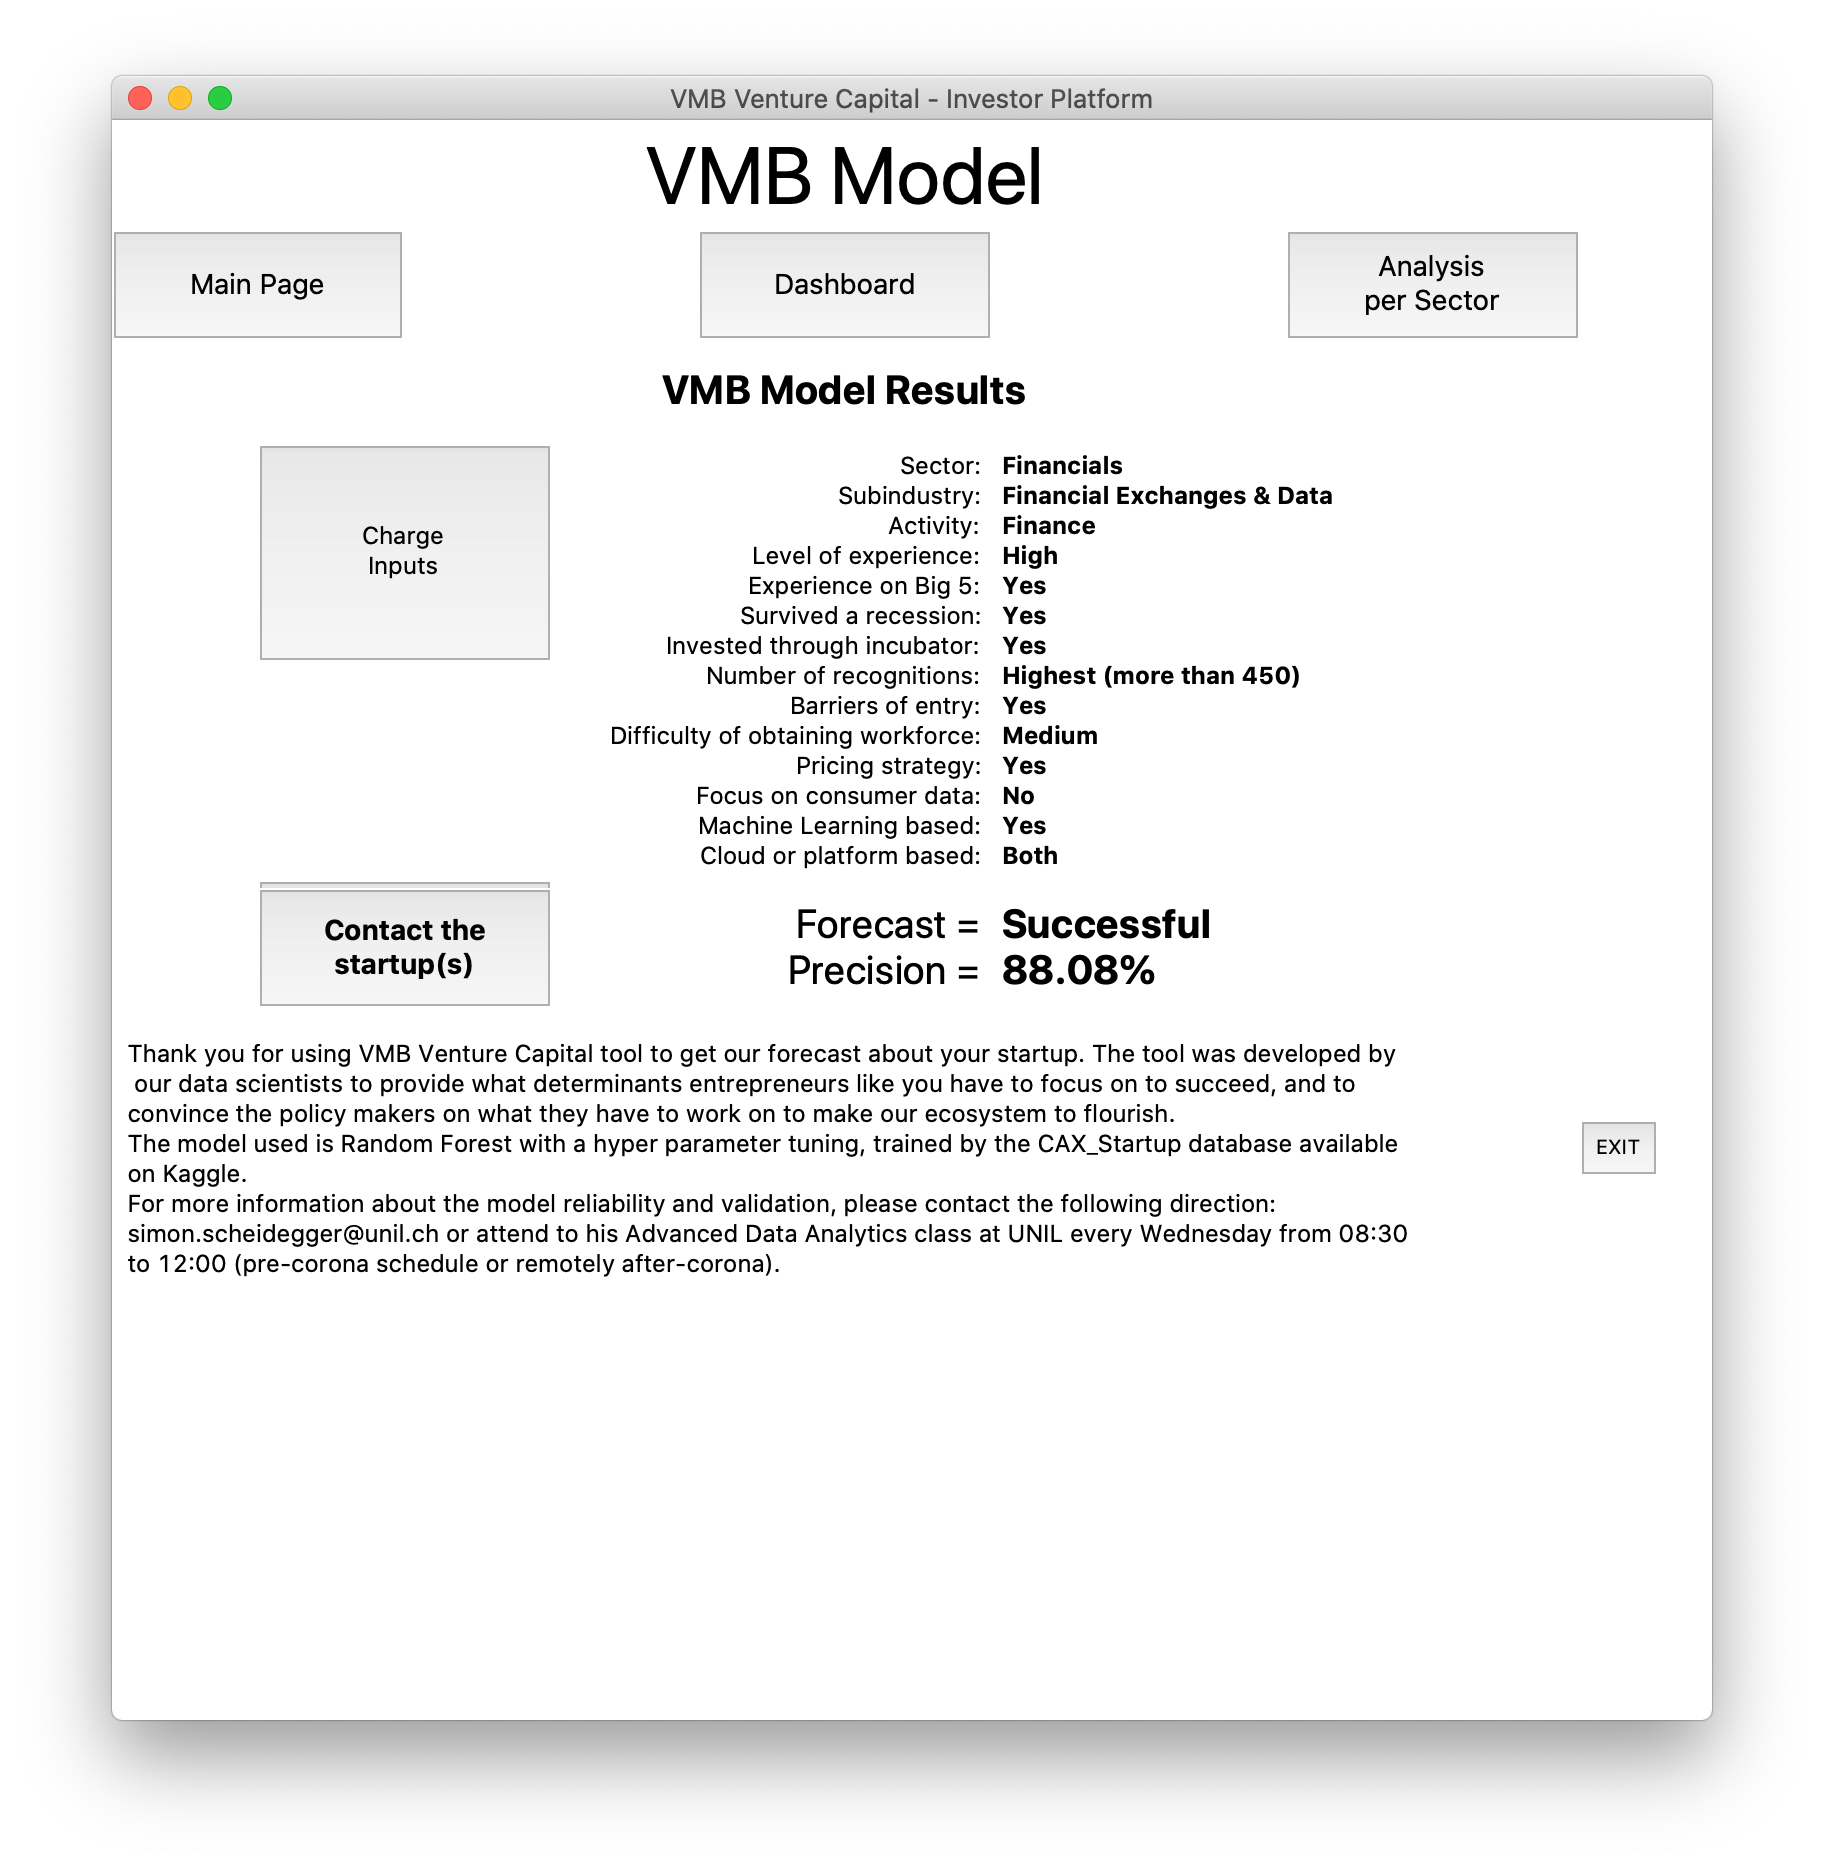
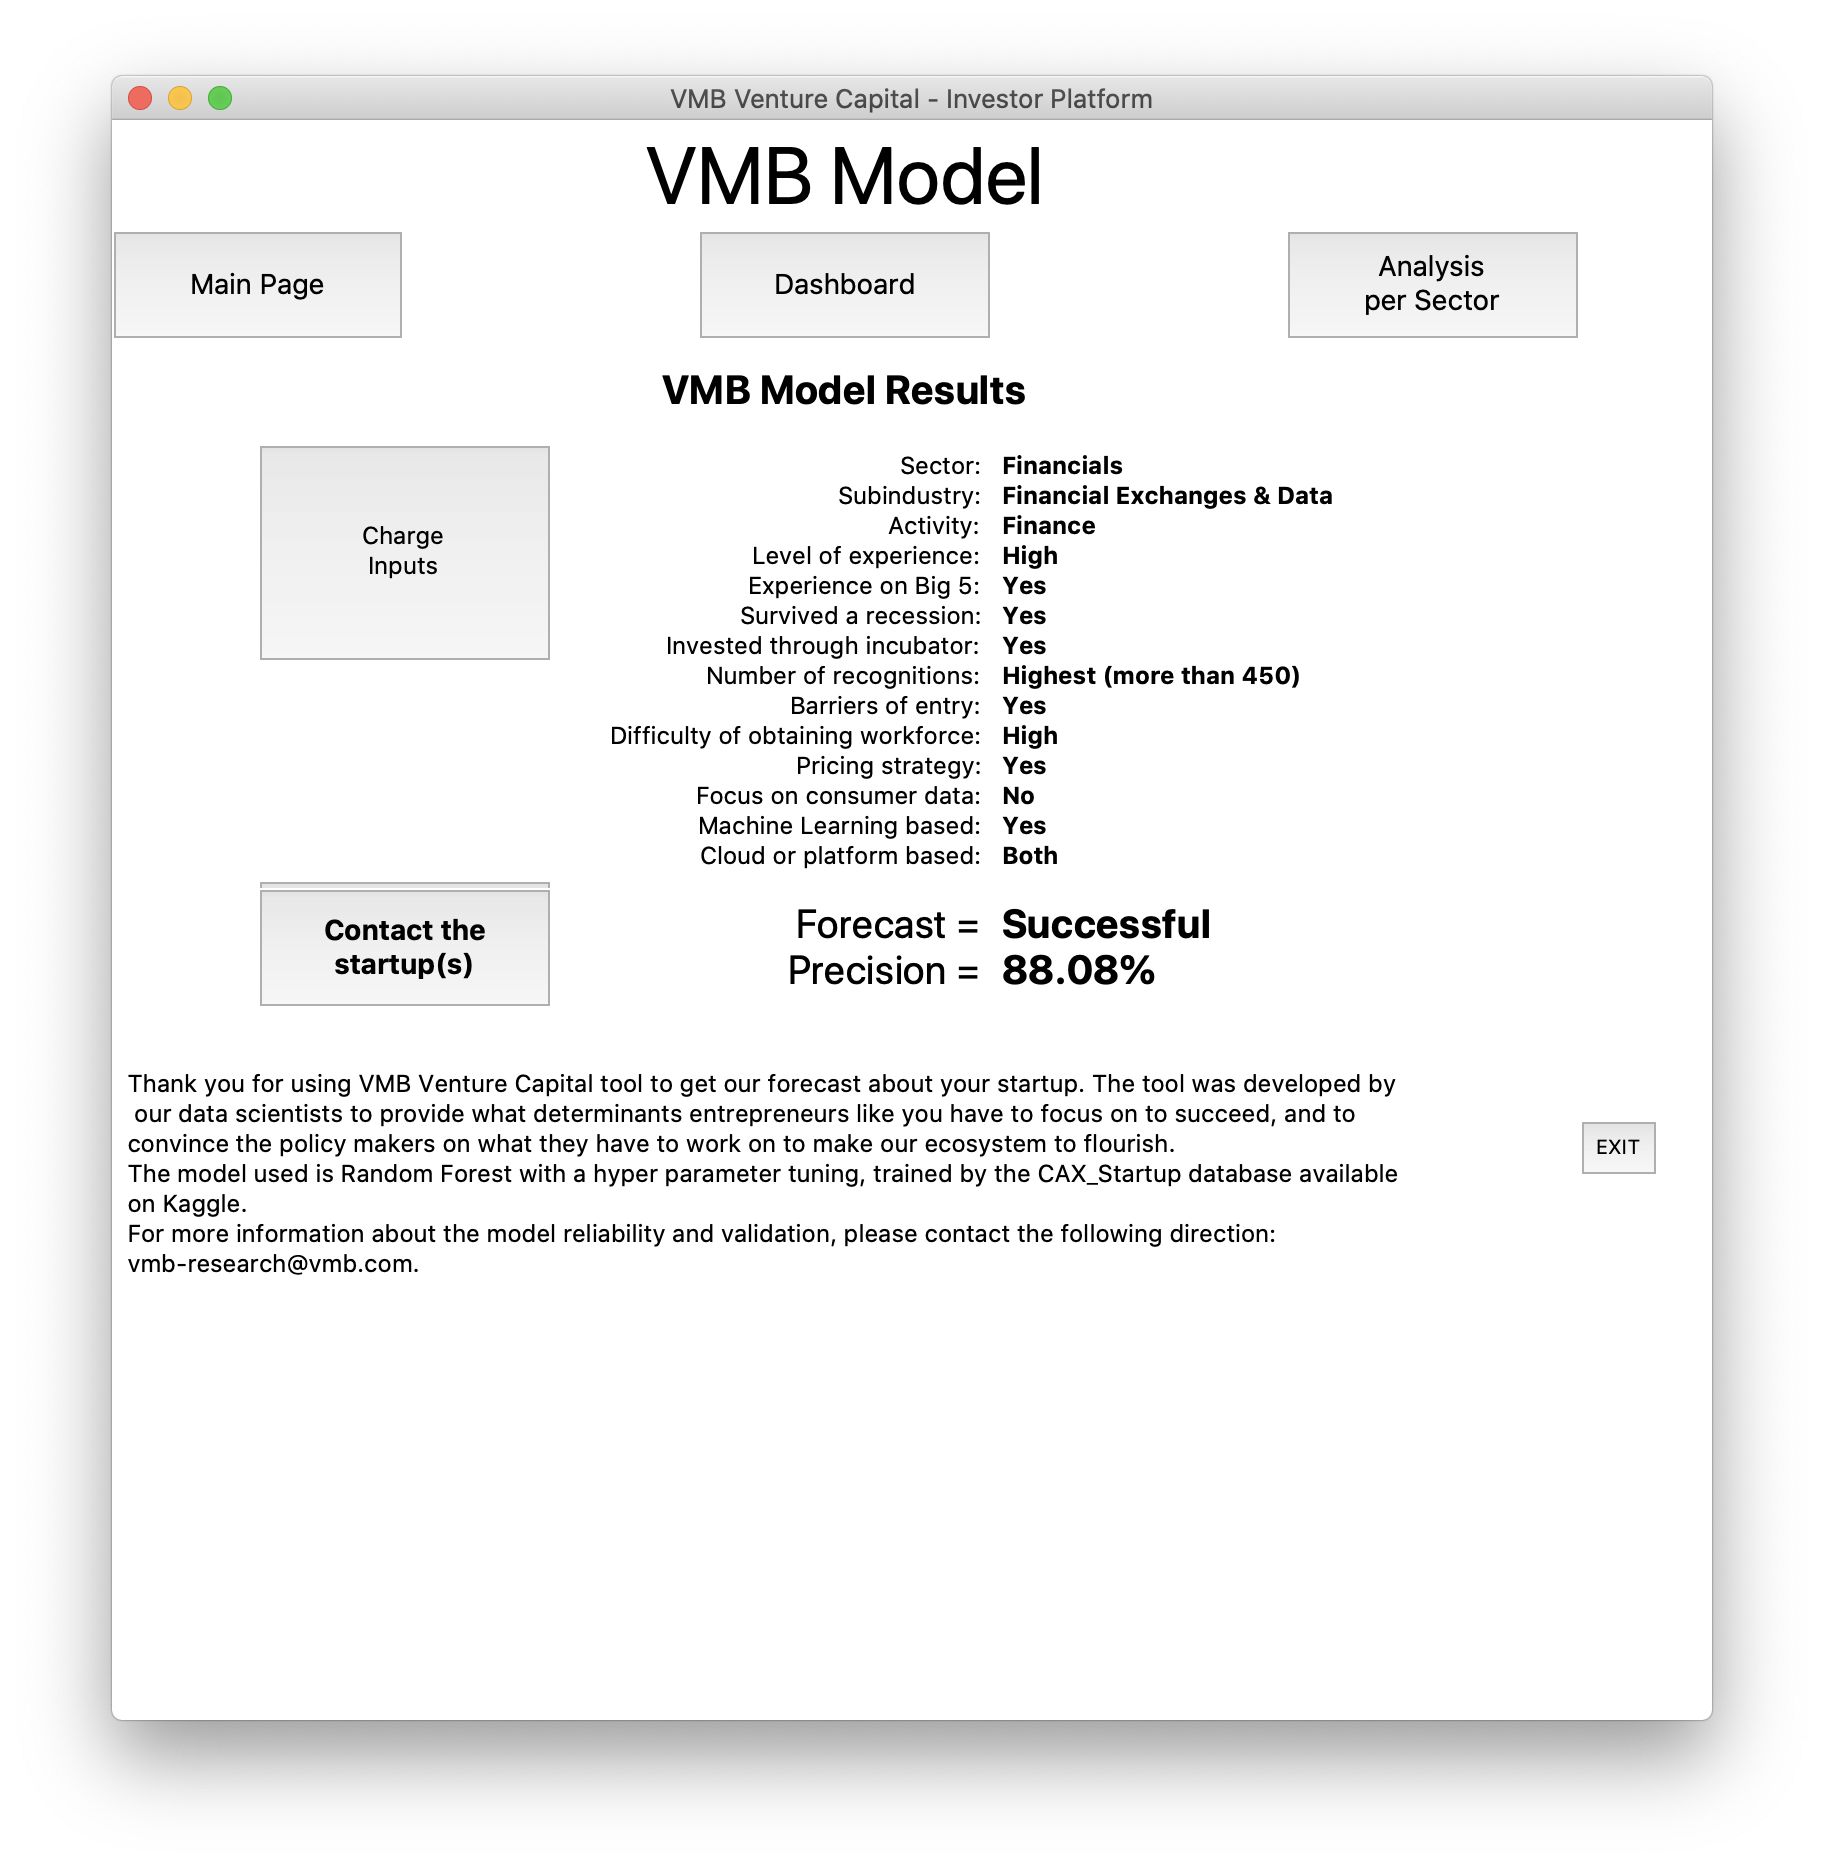
Results

Changed region(s): [[0.0625, 0.5589, 0.7812, 0.6831], [0.5625, 0.3726, 0.5938, 0.4036], [0.0938, 0.031, 0.125, 0.0621]]

diff --git a/PRO_Final_Project_VMB.py b/PRO_Final_Project_VMB.py
@@ -1464,7 +1464,8 @@ def charge_inputs():
 
 
 # Final text:
-ending_text = '\n  Thank you for using VMB Venture Capital tool to get our forecast about your ' \
+ending_text = '\n\n' \
+              '  Thank you for using VMB Venture Capital tool to get our forecast about your ' \
               'startup. The tool was developed by\n ' \
               '  our data scientists to provide what determinants entrepreneurs like you have ' \
               'to focus on to succeed, and to\n' \
@@ -1474,9 +1475,7 @@ ending_text = '\n  Thank you for using VMB Venture Capital tool to get our forec
               '  on Kaggle.\n' \
               '  For more information about the model reliability and validation, please contact ' \
               'the following direction:\n' \
-              '  simon.scheidegger@unil.ch or attend to his Advanced Data Analytics class at UNIL ' \
-              'every Wednesday from 08:30\n' \
-              '  to 12:00 (pre-corona schedule or remotely after-corona).'
+              '  vmb-research@vmb.com.'
 
 
 # Prediction function:
